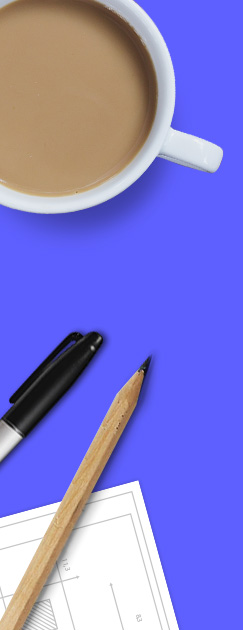
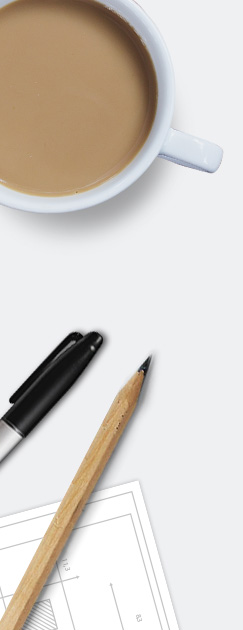
Welcome section fixes.

diff --git a/assets/src/styles/app/welcome.scss b/assets/src/styles/app/welcome.scss
@@ -1,16 +1,18 @@
 .welcome {
-	background-color: $blue;
+	background-color: $grey;
 	background-image: url(../images/bg-welcome-01.jpg), url(../images/bg-welcome-02.jpg);
 	background-repeat: no-repeat;
 	background-position: left, right;
 
 	.inner {
-		padding-top: 190px;
-		padding-bottom: 190px;
+		padding-top: 130px;
+		padding-bottom: 150px;
 		text-align: center;
 
 		h2 {
-			color: #ffffff;
+			span {
+				display: none;
+			}
 		}
 
 		p {
@@ -19,21 +21,6 @@
 			align-items: center;
 			max-width: 480px;
 			margin: 0 auto;
-
-			.btn {
-				background-color: #ffffff;
-				color: $blue;
-				box-shadow: 0 20px 15px -10px $dark-blue;
-
-				&:not([disabled]) {
-					&:hover,
-					&:focus {
-						color: $dark-blue;
-						text-decoration: none;
-						background: #e9e9ff;
-					}
-				}
-			}
 
 			img {
 				width: 200px;
@@ -47,8 +34,8 @@
 		background-image: none;
 
 		.inner {
-			padding-top: 140px;
-			padding-bottom: 140px;
+			padding-top: 100px;
+			padding-bottom: 110px;
 		}
 	}
 }
@@ -58,6 +45,16 @@
 		.inner {
 			padding-top: 90px;
 			padding-bottom: 90px;
+
+			h2 {
+				img {
+					display: none;
+				}
+
+				span {
+					display: inline-block;
+				}
+			}
 
 			p {
 				display: inline-block;

diff --git a/index.html b/index.html
@@ -7,6 +7,7 @@
 	<meta name="viewport" content="width=device-width, initial-scale=1.0, minimum-scale=1.0">
 
 	<link href="assets/dist/styles/app.css" rel="stylesheet">
+	<link rel="icon" href="assets/dist/images/favicon.png" type="image/png" sizes="16x16">
 </head>
 <body>
 	<header class="page-header">
@@ -35,7 +36,8 @@
 		<section class="welcome">
 			<div class="inner">
 				<h2>
-					PPUH PROXIMA spółka z o.o.
+					<img src="assets/src/images/proxima-logo-big.png" alt="Proxima">
+					<span>PPUH Proxima Spółka z o.o.</span>
 				</h2>
 				<p>
 					<a class="btn">Zobacz nasz Projekt EU</a>
@@ -60,7 +62,7 @@
 					Oferta firmy obejmuje doradztwo inżynierskie, ekspertyzy, inwentaryzacje, studia, kompleksowe projekty
 					budowlane i wykonawcze inwestycji oraz ich modernizacji, kosztorysy oraz rozruchu obiektów.
 				</p>
-				<a class="btn">Zobacz ofertę</a>
+				<a href="#services" class="btn">Zobacz ofertę</a>
 			</div>
 		</section>
 
